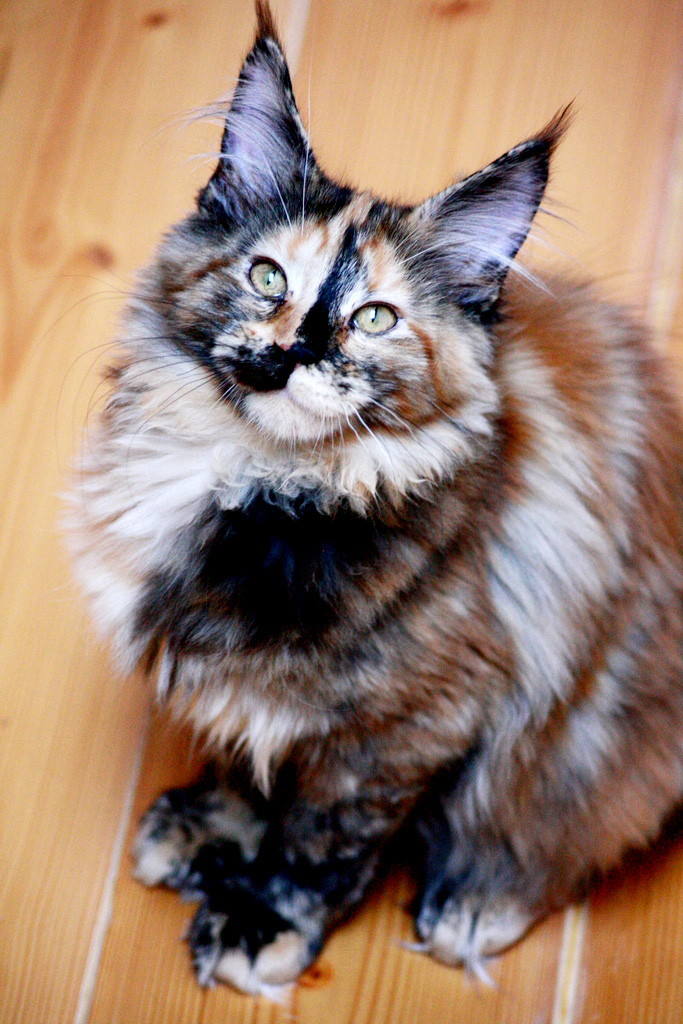
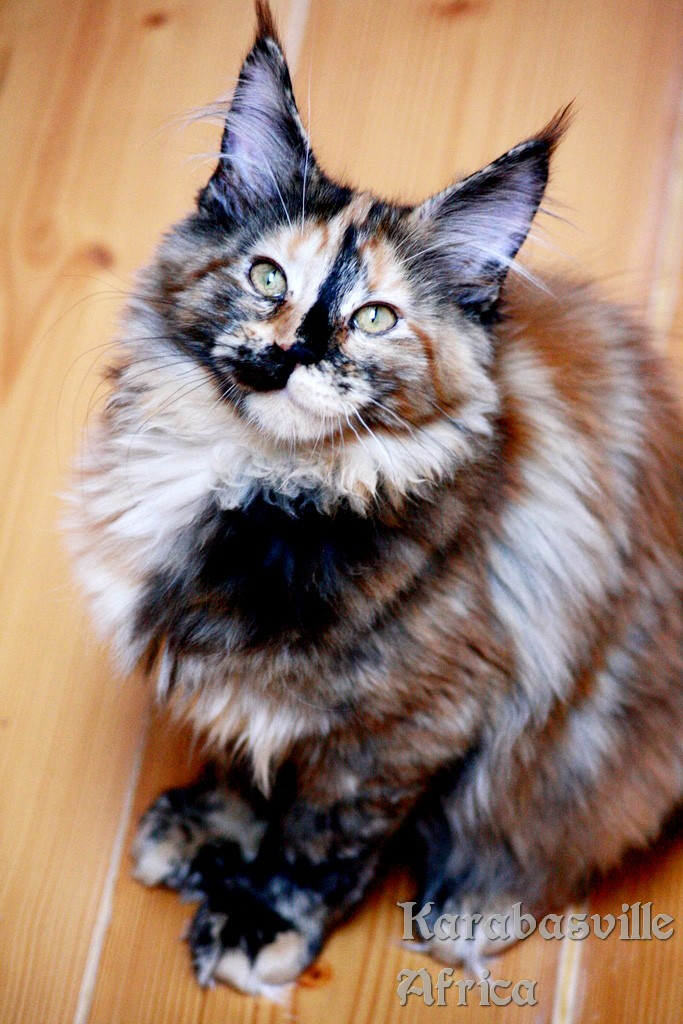
подписал фото + лишнее из "улыбнись" убрал

Changed region(s): [[0.5842, 0.875, 0.9839, 1.0]]

diff --git a/www/album-smile.php b/www/album-smile.php
@@ -36,15 +36,9 @@
           <div class="col-lg-3"><a href="img/gallery/smile/30.jpg" class="colorbox"><img src="img/gallery/smile/30.jpg" alt="photo"></a></div>
           <div class="col-lg-3"><a href="img/gallery/smile/31.jpg" class="colorbox"><img src="img/gallery/smile/31.jpg" alt="photo"></a></div>
           <div class="col-lg-3"><a href="img/gallery/smile/32.jpg" class="colorbox"><img src="img/gallery/smile/32.jpg" alt="photo"></a></div>
-          <div class="col-lg-3"><a href="img/gallery/smile/33.jpg" class="colorbox"><img src="img/gallery/smile/33.jpg" alt="photo"></a></div>
-          <div class="col-lg-3"><a href="img/gallery/smile/34.jpg" class="colorbox"><img src="img/gallery/smile/34.jpg" alt="photo"></a></div>
           <div class="col-lg-3"><a href="img/gallery/smile/35.jpg" class="colorbox"><img src="img/gallery/smile/35.jpg" alt="photo"></a></div>
-          <div class="col-lg-3"><a href="img/gallery/smile/36.jpg" class="colorbox"><img src="img/gallery/smile/36.jpg" alt="photo"></a></div>
           <div class="col-lg-3"><a href="img/gallery/smile/37.jpg" class="colorbox"><img src="img/gallery/smile/37.jpg" alt="photo"></a></div>
-          <div class="col-lg-3"><a href="img/gallery/smile/38.jpg" class="colorbox"><img src="img/gallery/smile/38.jpg" alt="photo"></a></div>
-          <div class="col-lg-3"><a href="img/gallery/smile/39.jpg" class="colorbox"><img src="img/gallery/smile/39.jpg" alt="photo"></a></div>
           <div class="col-lg-3"><a href="img/gallery/smile/40.jpg" class="colorbox"><img src="img/gallery/smile/40.jpg" alt="photo"></a></div>
-          <div class="col-lg-3"><a href="img/gallery/smile/41.jpg" class="colorbox"><img src="img/gallery/smile/41.jpg" alt="photo"></a></div>
 
 
         </div>

diff --git a/www/tosha.php b/www/tosha.php
@@ -15,7 +15,6 @@
               <img src="img/tosha/00-11-4.jpg" data-caption="11 месяцев">
               <img src="img/tosha/00-11-3.jpg" data-caption="11 месяцев">
               <img src="img/tosha/00-11-2.jpg" data-caption="11 месяцев">
-              <img src="img/tosha/00-11.jpg" data-caption="11 месяцев">
               <img src="img/tosha/00-095-5.jpg" data-caption="9,5 месяцев">
               <img src="img/tosha/00-095-4.jpg" data-caption="9,5 месяцев">
               <img src="img/tosha/00-095-3.jpg" data-caption="9,5 месяцев">

diff --git a/www/gallery.php b/www/gallery.php
@@ -7,7 +7,7 @@
           <div class="col-lg-4">
             <p><b>Улыбнись!</b></p>
             <a href="album-smile.php" >
-              <img src="img/gallery/smile/01.jpg" alt="Имя фотографии">
+              <img src="img/gallery/smile/26.jpg" alt="Имя фотографии">
             </a>
           </div>
 <!--           <div class="col-lg-4">
